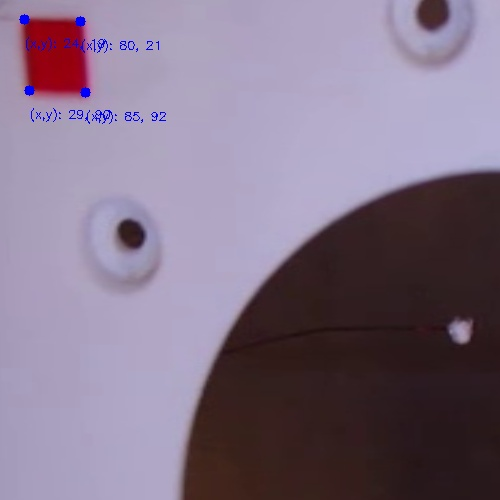
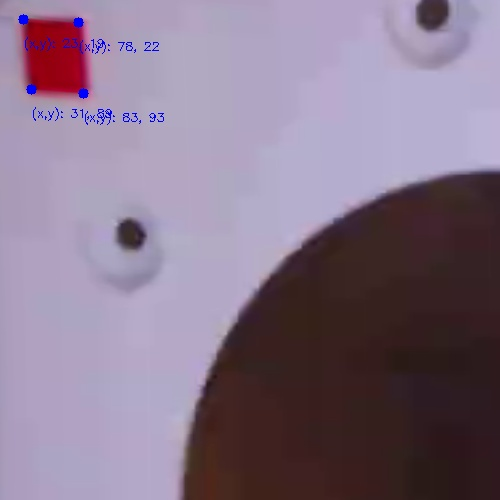
commented and debugged

diff --git a/objectLocalizer.py b/objectLocalizer.py
@@ -8,12 +8,6 @@ from imagePreprocessor import ImagePreprocessor
 from MapCoords import MapCoords
 from filters import SizeFilter, CircularityFilter
 
-scaled_res = (0, 0)
-
-# position of ends of camera lenses relative to origin (mm). #TODO read this from pickle
-cam1Position = np.array([0, 48, 142])
-cam2Position = np.array([0, -48, 142])
-
 # distance between fiducials in mm
 square_distance = 75
 
@@ -45,6 +39,10 @@ assert output_dir.split("/")[-1] == "output"
 
 
 class ObjectLocalizer:
+    """class for localizing object. thresholds to evaluate are defined upon initialization. Each subsequent call to
+    localize object inputs a raw frame from the camera setup defined in readme and returns the xyz coordinate of the
+    object in millimeters where the origin is at the bottom center point of the lev. Instructions for calibration can
+    be found in readme"""
 
     @staticmethod
     def draw_vectors_and_faceplate(points, lines):
@@ -295,15 +293,15 @@ class ObjectLocalizer:
         cv2.imshow("contour2_im", contour2_im)
         cv2.waitKey(0)
 
-        fp1 = ObjectLocalizer.get_focal_point(calibration_objects, im1_contour_centers)
-        fp2 = ObjectLocalizer.get_focal_point(calibration_objects, im2_contour_centers)
+        self.cam1fp = ObjectLocalizer.get_focal_point(calibration_objects, im1_contour_centers)
+        self.cam2fp = ObjectLocalizer.get_focal_point(calibration_objects, im2_contour_centers)
 
         # pickle
         with open('cam1fp', 'wb') as f:
-            pickle.dump(fp1, f)
+            pickle.dump(self.cam1fp, f)
 
         with open('cam2fp', 'wb') as f:
-            pickle.dump(fp2, f)
+            pickle.dump(self.cam2fp, f)
 
         print("calibration finished")
 
@@ -339,15 +337,17 @@ class ObjectLocalizer:
             # check if any contours are in range of each other
             for im1_cont_center in im1_contour_centers:
                 for im2_cont_center in im2_contour_centers:
-                    p1, p2 = ObjectLocalizer.closest_points_on_skew_lines(cam1Position, im1_cont_center, cam2Position, im2_cont_center)
-                    error1 = ObjectLocalizer.distance_thresh(p1, im1_cont_center, cam1Position, 3)
-                    error2 = ObjectLocalizer.distance_thresh(p2, im2_cont_center, cam2Position, 3)
+                    p1, p2 = ObjectLocalizer.closest_points_on_skew_lines(self.cam1fp, im1_cont_center,
+                                                                          self.cam2fp, im2_cont_center)
+                    error1 = ObjectLocalizer.distance_thresh(p1, im1_cont_center, self.cam1fp, 3)
+                    error2 = ObjectLocalizer.distance_thresh(p2, im2_cont_center, self.cam2fp, 3)
                     distance = ObjectLocalizer.distance3d(p1, p2)
                     midpoint = (p1 + p2) / 2
 
                     if error1 + error2 > distance and ObjectLocalizer.within_boundaries(midpoint):
                         if self.debug:
-                            ObjectLocalizer.draw_vectors_and_faceplate([im1_cont_center, im2_cont_center, midpoint], [[cam1Position, im1_cont_center], [cam2Position, im2_cont_center]])
+                            ObjectLocalizer.draw_vectors_and_faceplate([im1_cont_center, im2_cont_center, midpoint],
+                                                    [[self.cam1fp, im1_cont_center], [self.cam2fp, im2_cont_center]])
                         return midpoint
 
             counter += self.step
@@ -369,6 +369,12 @@ class ObjectLocalizer:
         self.debug = debug
 
         self.filters = ObjectLocalizer.create_filters()
+
+        # read in camera focal points
+        with open('cam1Fp', 'rb') as f:
+            self.cam1fp = pickle.load(f)
+        with open('cam2Fp', 'rb') as f:
+            self.cam2fp = pickle.load(f)
 
         # load intrensic camera parameters. Used to undistort images from cameras
         with open('cam1Params', 'rb') as f:
@@ -398,7 +404,8 @@ def debug_test(frame):
 
 # demo
 def demo():
-    cap = cv2.VideoCapture('/Users/andylegrand/PycharmProjects/objloc_ras_pi/cardboardbackground.mp4')
+    cap = cv2.VideoCapture('/Users/andylegrand/PycharmProjects/objloc_ras_pi/cardboardbackground.mp4') # run on stored video
+    #cap = cv2.VideoCapture(0) # run of webcam 0
     ret, frame = cap.read()
 
     obj_loc = ObjectLocalizer(frame, 60, 150, 5, debug=False)
@@ -442,5 +449,5 @@ def demo():
         cv2.waitKey(1)
 
 if __name__ == '__main__':
-    # demo()
-    debug_test(18)
+    demo()
+    # debug_test(18)

diff --git a/MapCoords.py b/MapCoords.py
@@ -13,8 +13,6 @@ class MapCoords:
     inputs an image, locates the fiducials, then can identify the real world location of each pixel in the image on a
     2d plane. measurements are in mm and 0,0 is at the center of the 4 fiducials.
     """
-    RED_THRESH = 125
-    GREEN_BLUE_THRESH = 60
 
     def print_debug(self, message):
         """only print message if debug is enabled"""
@@ -36,7 +34,7 @@ class MapCoords:
         :param square_side_length: the side length of a fiducial square
         :param outputDir: directory to write output images to. Set to None if no images should be written.
         :param print_messages: set to true for debug print messages
-        :param show_cropped_fiducials: if set to true will the outline of each fiducial will be displayed during
+        :param show_cropped_fiducials: if set to true show the outline of each fiducial. Displayed during
             initialization
         """
         self.print_messages = print_messages
@@ -44,11 +42,12 @@ class MapCoords:
         self.image = image
         self.cm_distance = square_distance
         self.output_dir = outputDir
+        self.square_side_length = square_side_length
         src_points = []
         dst_points = []
 
         # constants for building dst points
-        offset_distance = square_distance - square_side_length
+        offset_distance = square_distance
         fiducial_top_left_points = [[0, 0], [0, offset_distance], [offset_distance, offset_distance],
                                     [offset_distance, 0]]
         fiducial_offsets = [[0, 0], [0, square_side_length], [square_side_length, square_side_length],
@@ -120,7 +119,8 @@ class MapCoords:
         :return: real world coordinate of pixel value
         """
         return MapCoords.apply_homography_transform(self.homography_transform, px, py) \
-               - np.array([self.cm_distance/2, self.cm_distance/2])  # subtract 30 to set 0,0 to center
+               - np.array([(self.cm_distance+self.square_side_length)/2, (self.cm_distance+self.square_side_length)/2])
+        # subtract 30 to set 0,0 to center
 
     def get_image(self):
         """
@@ -151,26 +151,19 @@ class MapCoords:
 
     @staticmethod
     def preprocess_image(image):
-        # TODO rewrite this using hsv threshold
         """blur and threshold image"""
         image_copy = np.copy(image)
 
         # apply blur
         image_copy = cv2.medianBlur(image_copy, 5)
 
-        # split into BGR
-        B, G, R = cv2.split(image_copy)
+        # Convert to HSV
+        img_hsv = cv2.cvtColor(image_copy, cv2.COLOR_BGR2HSV)
 
-        # filter out red squares by looking for high red and low green and blue
-        ret, B = cv2.threshold(B, MapCoords.GREEN_BLUE_THRESH, 80, cv2.THRESH_BINARY_INV)
-        ret, G = cv2.threshold(G, MapCoords.GREEN_BLUE_THRESH, 80, cv2.THRESH_BINARY_INV)
-        ret, R = cv2.threshold(R, MapCoords.RED_THRESH, 80, cv2.THRESH_BINARY)
+        # Threshold (have to threshold twice and combine because red hue value wraps)
+        thresh = cv2.inRange(img_hsv, (0, 200, 50), (10, 255, 255)) + cv2.inRange(img_hsv, (170, 200, 50), (180, 255, 255))
 
-        # must pass threshold in all color channels
-        combined = B + G + R
-        ret, combined = cv2.threshold(combined, 200, 255, cv2.THRESH_BINARY)
-
-        return combined
+        return thresh
 
     @staticmethod
     def crop(img, point1, point2):

diff --git a/findCameraIntrensics.py b/findCameraIntrensics.py
@@ -54,12 +54,14 @@ while True:
     im1, im2 = ImagePreprocessor.get_camera_images(img)
 
     if add_image(im1, objpointsCam1, imgpointsCam1):
-        cv.imwrite(cam1_output_dir+"img"+str(cam1_num)+".jpg", im1)
         cam1_num += 1
+        print("works with cam1. " + str(cam1_num) + " images captured")
+        cv.imwrite(cam1_output_dir+"img"+str(cam1_num)+".jpg", im1)
 
     if add_image(im2, objpointsCam2, imgpointsCam2):
-        cv.imwrite(cam1_output_dir+"img"+str(cam2_num)+".jpg", im2)
         cam2_num += 1
+        print("works with cam2. ")
+        cv.imwrite(cam1_output_dir+"img"+str(cam2_num)+".jpg", im2)
 
 
 ret1, mtx1, dist1, rvecs1, tvecs1 = cv.calibrateCamera\

diff --git a/imagePreprocessor.py b/imagePreprocessor.py
@@ -1,13 +1,14 @@
 import cv2
 import numpy as np
 
+# points which define crop to isolate image from background
 im_top_left = []
 im_bottom_right = []
 
 im1_crop = np.array([[1550, 1005], [2900, 994], [1400, 2430], [3100, 2450]])
 im2_crop = np.array([[837, 580], [3500, 630], [3200, 2850], [1100, 2800]])
 
-camera_resolution = (4056,3040)  # [columns, rows]
+camera_resolution = (4056, 3040)  # [columns, rows]
 
 
 class ImagePreprocessor:

diff --git a/dirReset.py b/dirReset.py
@@ -1,5 +1,6 @@
 import os
 
+
 # be super careful with this!!
 def reset_directory(folder):
     """erases all files inside directory and all subdirectories"""

diff --git a/README.md b/README.md
@@ -1,0 +1,40 @@
+System Overview:
+
+Hardware Design:
+
+Receiving video from raspberry pi:
+
+In this system all the raspberry pi does is receive video from the hat and then send it to the pc. This is done via 
+the hdmi port. Upon being turned on, the raspberry pi runs a script which fills the display with the camera output.
+Instructions on how to do this can be found [here](https://webtechie.be/post/2021-12-20-raspberry-pi-as-hdmi-camera-for-atem-mini/)
+
+One important thing to note is that the pi outputs at a 16:9 aspect ratio while the camera outputs at a 4:3 aspect 
+ratio. While it is possible to fill the entire screen with the camera, this will cut off the top and bottom of the 
+image (fig. 1). The best solution I found is to match the vertical resolutions and have black bars on either side 
+(fig. 2). The camera output resolution can be changed by modifying the lib camera hello command in the startup script
+
+Setting up the object localization software with a new hardware configuration (these steps only need to be performed once):
+
+1. Run the findCameraIntrensics.py script. Place a 7x7 chessboard cutout beneath each camera, then press enter. The program will then attempt to find the chessboard corners for each camera. The program will then print if each camera was successful. Try to get at least 40 successful images per camera. More info about this calibration process can be found [here](https://www.geeksforgeeks.org/camera-calibration-with-python-opencv/),
+2. Place the calibration plate inside the lev, then call the calibrate_focal_points method with an object localizer class. this will calculate the focal points of each camera with a given hardware setup
+
+Running the object localization software:
+
+After calibration the user should only need to interact with the object_localizer class. Each call to localize object 
+inputs a raw frame from the pi and outputs the 3d coordinates of the object in millimeters. If no objects are found then None is returned
+
+Overview of main algorithm used during localization:
+
+Assume 1 object is in the levitator. Using opencvs find contour method we ae able to find the location of the projection 
+of the object on the fiducial plane. We can then draw a vector from the cameras focal point to the location of the 
+projection. The object is then located Where these two lines are closest to eachother. 
+
+This looks like this:
+
+Because there is no threshold value that will work for every background and object combination, different thresholds are 
+tried until the object is detected. For each threshold value we recieve a set of contours from each camera. We then check 
+every combination of contours and if the lines come close enough to eachother than an obejct is detected. To limit the 
+amount of contours detected per thresholded image filters are applied. By default we filter by size and circularity. 
+These filters are not meant to eliminate every contour which does not correspond to an object, but only those which are 
+obviously wrong to help runtime.
+
